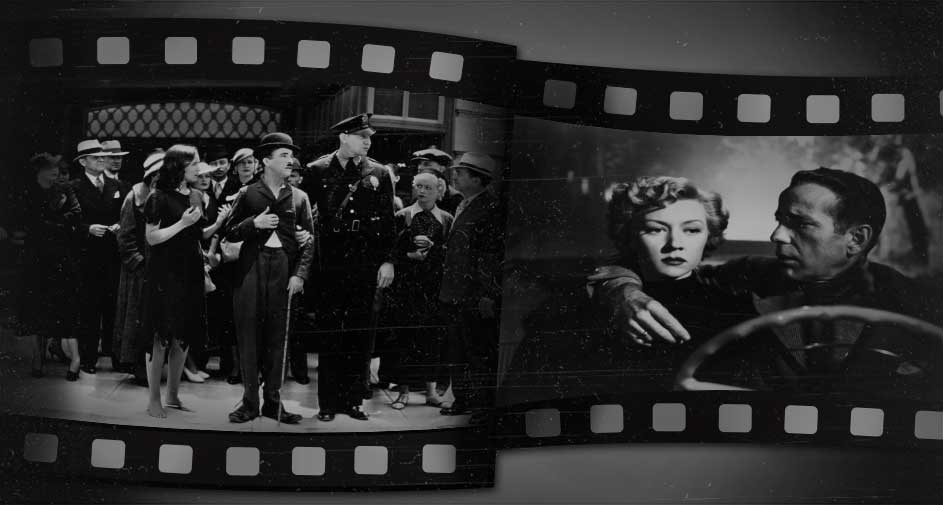
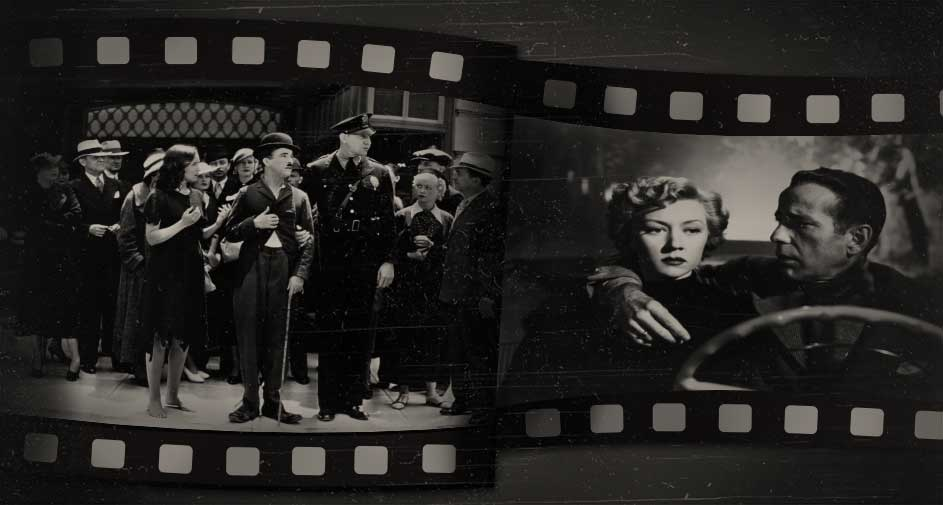
changed bill board image

Changed region(s): [[0.1845, 0.0, 0.8918, 0.1485], [0.1845, 0.8614, 0.8303, 1.0]]

diff --git a/index.html b/index.html
@@ -23,7 +23,7 @@
       <nav class="nav nav-top" data-state="collapsed">
         <ul>
           <li><a class="" href="pricing.html">Pricing</a></li>
-          <li><a class="" href=" ">Features</a></li>
+          <li><a class="" href="#features">Features</a></li>
           <li><a class="" href="">Login</a></li>
           <li><a class="" href="">Sign Up</a></li>
         </ul>
@@ -32,8 +32,8 @@
   </div>
 </header>
 
-<div class="billboard overlay grid">
-	<div class="overlay gutter title-block pad-top unit unit-s-1 unit-m-1 unit-l-1">
+<div class="billboard grid grid-middle">
+	<div class="gutter title-block pad-top unit unit-s-1 unit-m-1 unit-l-1">
 		<h1 class="title push-top-none">CHOOSE WHAT YOU WATCH</h1>
 		<p class="subhead mega">The best site to stream your favourite movies and Tv-shows. Even the newest ones.</p>
 	</div>
@@ -47,7 +47,7 @@
 </div>
 
 <div class="grid icon-back">
-	<div class="island box-1 unit unit-s-1 unit-m-1-2 unit-l-1-3">
+	<div id="features" class="island box-1 unit unit-s-1 unit-m-1-2 unit-l-1-3">
 		<img class="icons" src="images/new-releases.svg" alt="">
 		<h4 class="why-title push-none">Watch New Releases</h4>
 		<p class="why-copy">Skip strangers at the theatre and watch the newest releases online anywhere you want.</p>
@@ -80,6 +80,8 @@
  		</div>
  	</div>
 </footer>
+
+
 
 
 

diff --git a/pricing.html b/pricing.html
@@ -32,8 +32,6 @@
   </div>
 </header>
 
-<div class="grid">
-<div class="unit unit-s-1 unit-m-1-2 unit-l-1-3">
 <div class="grid back">
   <div class="price-margin unit unit-s-1 unit-m-1-2 unit-l-1-3">  
     <div class="popcorn">
@@ -52,8 +50,6 @@
       <button class="mega" type="submit">$3.99</button>
     </div>
   </div>
-</div>
-<div class="grid back">
   <div class="price-margin unit unit-s-1 unit-m-1-2 unit-l-1-3">
     <div class="popcorn">
       <div class="circle">
@@ -71,8 +67,6 @@
         <button class="mega" type="submit">$5.99</button>
       </div>
     </div>
-  </div>
-<div class="grid back">
   <div class="price-margin unit unit-s-1 unit-m-1-2 unit-l-1-3">
     <div class="popcorn">
       <div class="circle">
@@ -90,8 +84,6 @@
         <button class="mega" type="submit">$9.99</button>
       </div>
     </div>
-  </div>
-<div class="grid back">
   <div class="price-margin unit unit-s-1 unit-m-1-2 unit-l-1-3">
     <div class="popcorn">
       <div class="circle">
@@ -111,7 +103,7 @@
   </div>
 </div>
 </div>
-</div>
+
 
 
 

diff --git a/css/main.css b/css/main.css
@@ -127,27 +127,22 @@ img {
 
 .billboard {
 	background-color: rgba(255,247,0,1);	
-	background-image: url(../images/billbored.jpg);
+	background-image: url(../images/billboard.jpg);
 	width: 100%;
+	background-size: 100%;
 	overflow: hidden;
 	height: 30rem;
 }
 
-.overlay {
-	background-color: rgba(255,247,0,0.2);
-}
-
 .title {
 	font-weight: 900;
-	color: white;
+	color: rgba(255,247,0,1);
 	text-transform: capitalize;
-	text-shadow: rgba(40,40,40,0.8) 0.15rem 0.15rem 0.05rem;
 }
 
 .subhead {
 	font-weight: 500;
 	color: white;
-	text-shadow: rgba(40,40,40,0.8) 0.15rem 0.15rem 0.05rem;
 }
 
 .title-block {
@@ -248,9 +243,6 @@ button:hover {
 	font-weight: 500;
 }
 
-.back {
-	background-color: rgba(40,40,40,1);
-}
 
 .price-margin {
 	margin: 0 1.5rem 1.5rem 3rem;
@@ -268,9 +260,8 @@ button:hover {
 	margin-left: -40%;
 }
 
-.pricing-back {
+.back {
 	background-image: url(../images/seats.jpg);
-
 }
 
 .circle {
